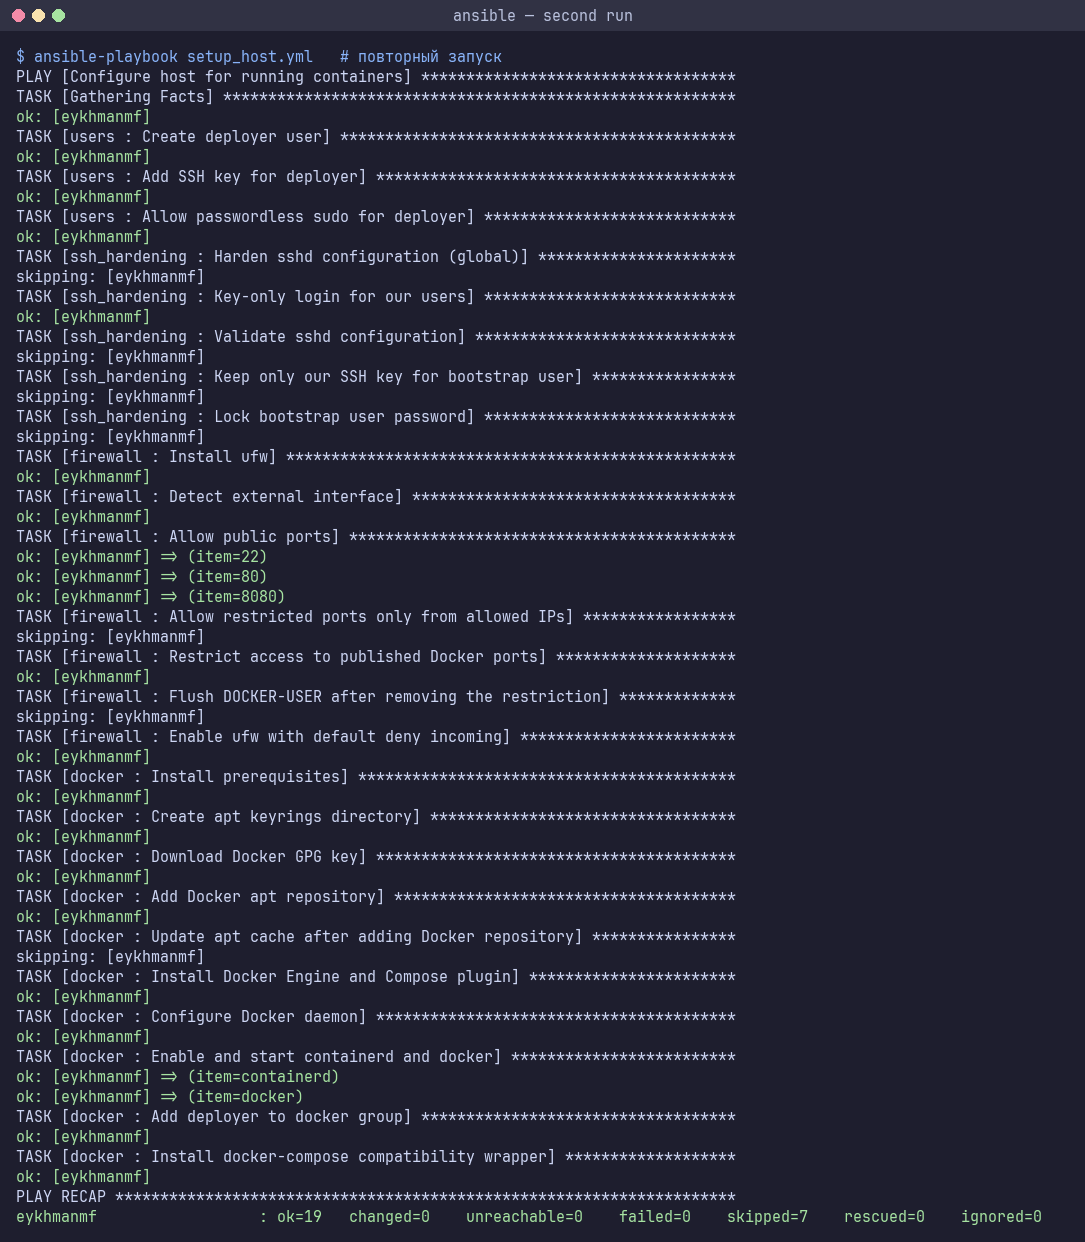
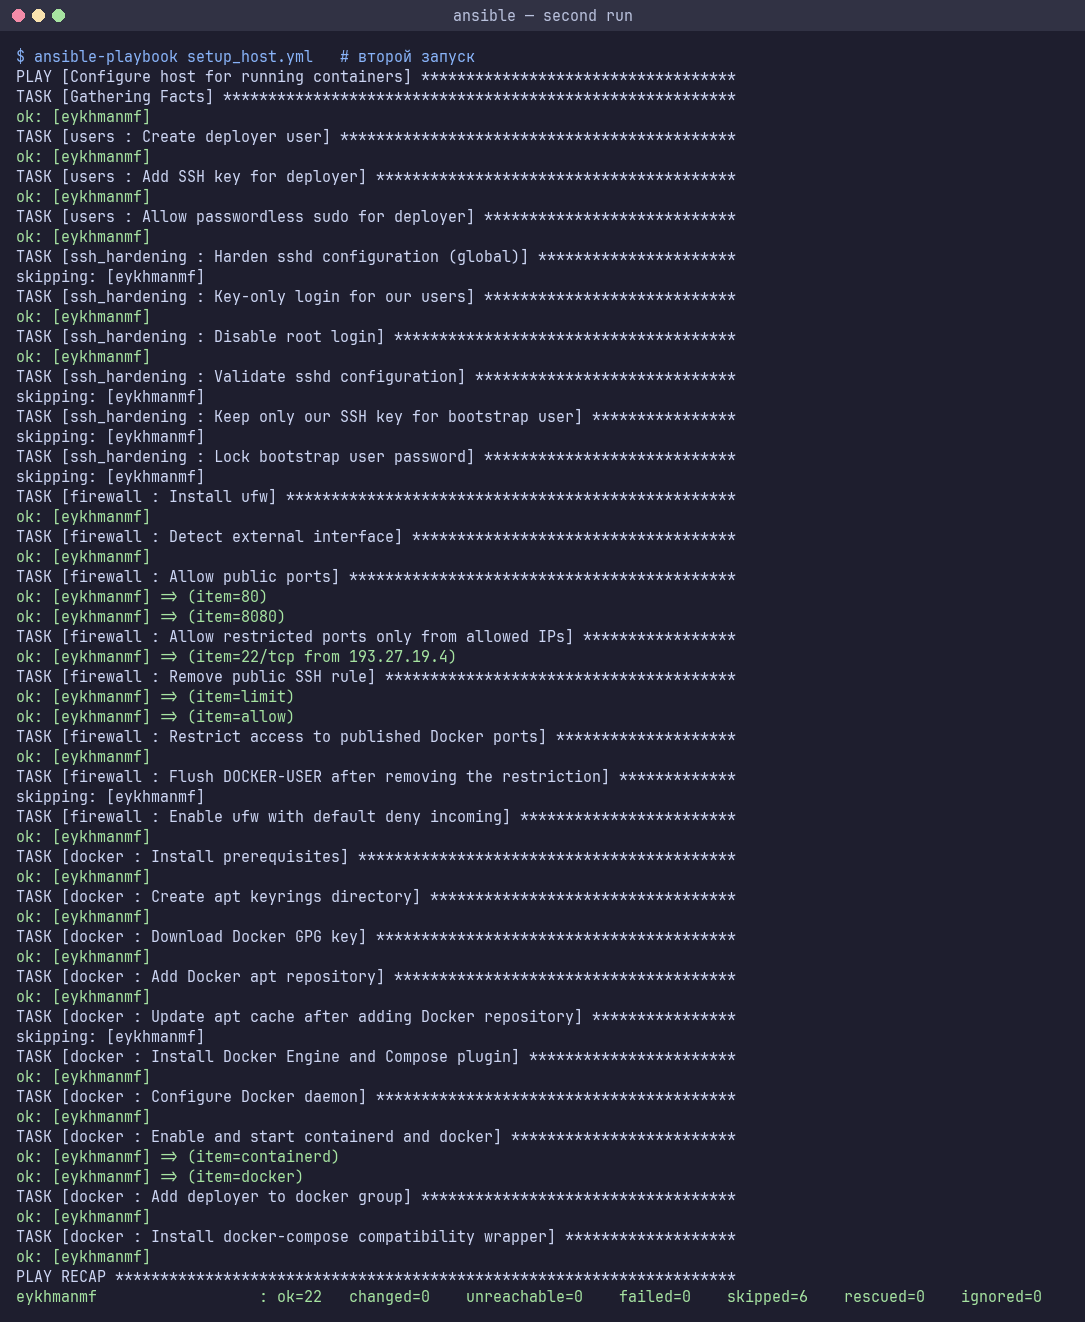
ssh только с моего ip, root запрещен

diff --git a/README.md b/README.md
@@ -130,9 +130,9 @@ Compose живёт в своих сетях `app_frontend` и `app_backend`. Sta
 - `deployer` - sudo без пароля, группа docker, под ним terraform
 - `vm-operator` - создаётся terraform, через sudo может только смотреть и перезапускать docker (`systemctl`, `journalctl`, `docker ps`, `docker compose ps/restart`)
 
-Для `student` и `deployer` вход по ssh только по ключу (`Match User` в sshd).
+Для `student` и `deployer` вход по ssh только по ключу (`Match User` в sshd). Вход под root по ssh запрещён (`PermitRootLogin no`).
 
-**Firewall (ufw).** Всё входящее закрыто, открыты 22, 80 и 8080. На 22 стоит `ufw limit` (не больше 6 подключений за 30 сек). Сначала делал 22 только со своего IP, но он у меня меняется (VPN), поэтому так. Порт контейнера app наружу не опубликован.
+**Firewall (ufw).** Всё входящее закрыто. SSH (22) только с моего IP (`allowed_ips` в `group_vars/uni.yml`), 80 и 8080 открыты всем - это сайты. Порт контейнера app наружу не опубликован. Если IP поменялся - добавить новый в `allowed_ips` и запустить `setup_host.yml` со старого.
 
 **Ansible.** Роли, модули вместо shell (command только для проверки `sshd -t`), поэтому второй запуск `changed=0`. Docker ставится из официального репозитория. Для команды `docker-compose` из задания сделана обёртка над `docker compose`.
 
@@ -144,7 +144,8 @@ Compose живёт в своих сетях `app_frontend` и `app_backend`. Sta
 
 - Сначала делал VM в VirtualBox через провайдер `shekeriev/virtualbox`, apply висел 5 минут и падал: провайдер ждёт IP на всех сетевых картах, а образ настраивает только первую. Потом выдали сервер и сказали использовать docker провайдер, virtualbox убрал.
 - `terraform plan` после apply каждый раз хотел пересоздать сеть - docker сам ставил gateway. Задал `gateway` явно.
-- Docker публикует порты в обход ufw. Пока доступ был только с моего IP, фильтровал в цепочке `DOCKER-USER`. После открытия портов в iptables остались старые правила, `ufw reload` их не чистит - добавил flush.
+- Docker публикует порты в обход ufw. Когда 80/8080 были только с моего IP, фильтровал в цепочке `DOCKER-USER`. После открытия портов в iptables остались старые правила, `ufw reload` их не чистит - добавил flush.
+- Пока 22 был открыт всем с `ufw limit`, при закрытии по IP старое правило оставалось (ufw не удаляет правила сам) - добавил задачу, которая его удаляет. Перед изменением ставил таймер `systemd-run --on-active=15min ufw limit 22/tcp`, чтобы не потерять ssh, если что-то пойдёт не так.
 - `ufw limit` начал резать мои ssh подключения, когда делал много команд подряд. Сделал одно соединение (`ControlMaster`), в том числе для terraform.
 - `ansible_managed` не работает в `copy`, только в `template`.
 - ansible 2.21 ругался на `apt_repository` - заменил на `deb822_repository` (нужен пакет python3-debian).
@@ -157,4 +158,4 @@ Compose живёт в своих сетях `app_frontend` и `app_backend`. Sta
 2. **Зачем state.** В нём связь между кодом и реальными объектами (id сети, тома, контейнера). Без него terraform не знает что уже создано: plan предложит создать всё заново, а apply упадёт, потому что сеть с таким именем уже есть. Придётся делать `terraform import` или удалять руками.
 3. **Идемпотентность.** Повторный запуск ничего не меняет. Модули ansible сначала проверяют текущее состояние. Проверял вторым запуском playbook - `changed=0`. У terraform то же самое - `No changes` на повторном plan.
 4. **Ошибки в monitor.sh.** Нет аргумента - usage и код 2. Сервис не найден - сообщение и код 2. Лог пустой или нет прав - предупреждение. Нет /var/log/syslog - считает через journalctl. Нет прав на syslog - пишет запустить через sudo.
-5. **Security group.** Всё закрыто кроме 22, 80, 8080. 80 и 8080 - сайты, их надо проверять через curl. 22 не ограничен по IP, потому что мой IP меняется, вместо этого limit и вход только по ключу. Контейнер app наружу не опубликован, docker api наружу не открыт.
+5. **Security group.** Всё закрыто кроме 22, 80, 8080. SSH только с моего IP, вход только по ключу, root запрещён - так убирается перебор паролей и доступ с чужих адресов. 80 и 8080 - сайты, их надо проверять через curl. Контейнер app наружу не опубликован, docker api наружу не открыт.
